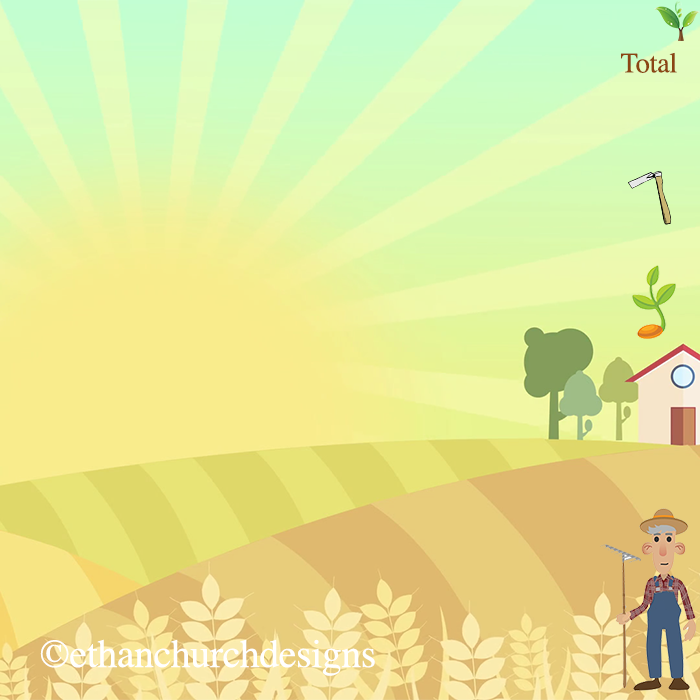
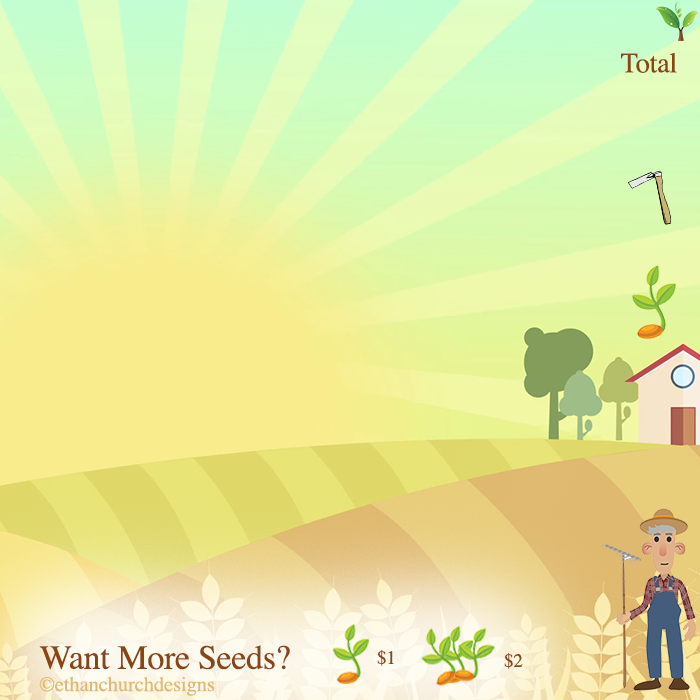
Added Money

Changed region(s): [[0.0, 0.78, 0.84, 1.0]]

diff --git a/greenmedowestatesplot/sketch.js b/greenmedowestatesplot/sketch.js
@@ -13,6 +13,8 @@ let grid;
 let cellSize, cellWidth;
 let theWidth, theHeight;
 let farmingAbility;
+let money;
+let crops;
 
 function preload() {
   startmenump3 = loadSound("assets/startmenu.mp3");
@@ -41,13 +43,16 @@ function setup() {
   // creates canvas and grid.
   createCanvas(theWidth, theHeight);
   grid = createRandom2dArray(cols, rows);
+  money = 0;
 }
+
 
 function draw() {
   image(farmbackground, 0,0);
   displayPlot();
   timeToFarm();
   displaySeedCount();
+  displayMoney();
 }
 
 //Creates original array
@@ -63,6 +68,13 @@ function createRandom2dArray(cols, rows) {
     }
   }
   return randomGrid;
+}
+
+function displayMoney(){
+  if (money < 10){
+    fill(139,69,19);
+    // text(money, ) not done yet
+  }
 }
 
 function displaySeedCount() {
@@ -113,6 +125,12 @@ function mousePressed() {
     farmingAbility = 2;
   } else if (mouseX >= 310 && mouseY >= 220 && mouseX <= 680 && mouseY <= 350){
     farmingAbility = 1;
+  } else if (mouseX >= 330 && mouseY >= 620 && mouseX <= 400 && mouseY <= 685){
+    money - 1;
+    crops++;
+  } else if (mouseX >= 420 && mouseY >= 620 && mouseX <= 530 && mouseY <= 685){
+    money - 2;
+    crops += 3;
   }
 }
 
